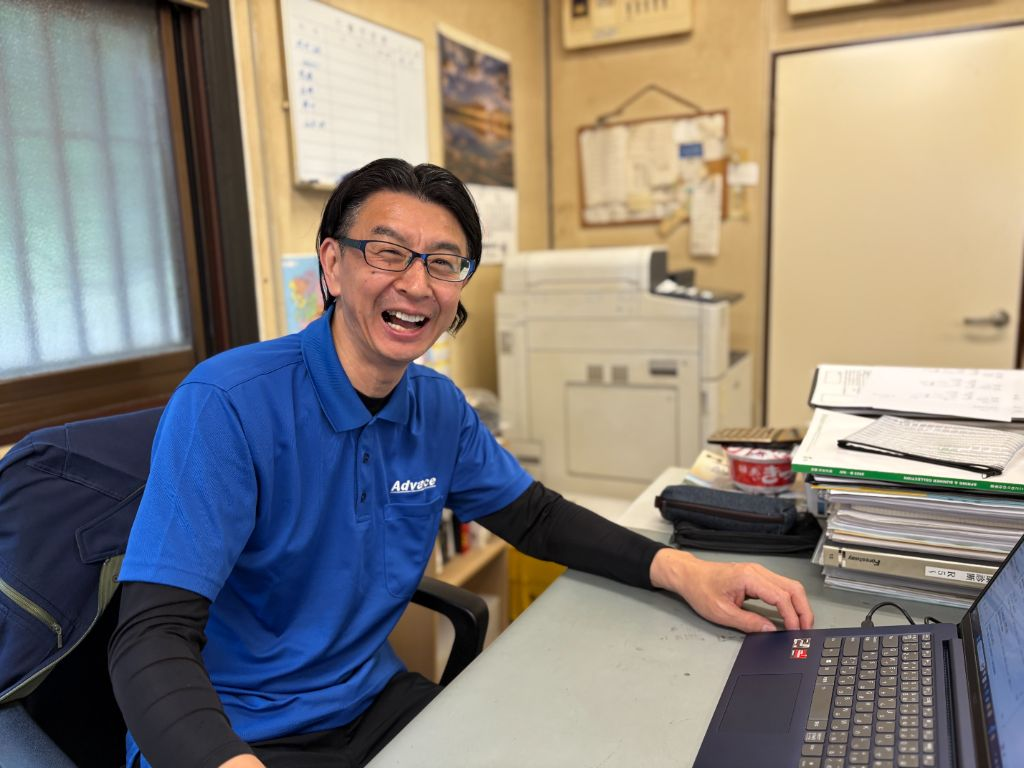
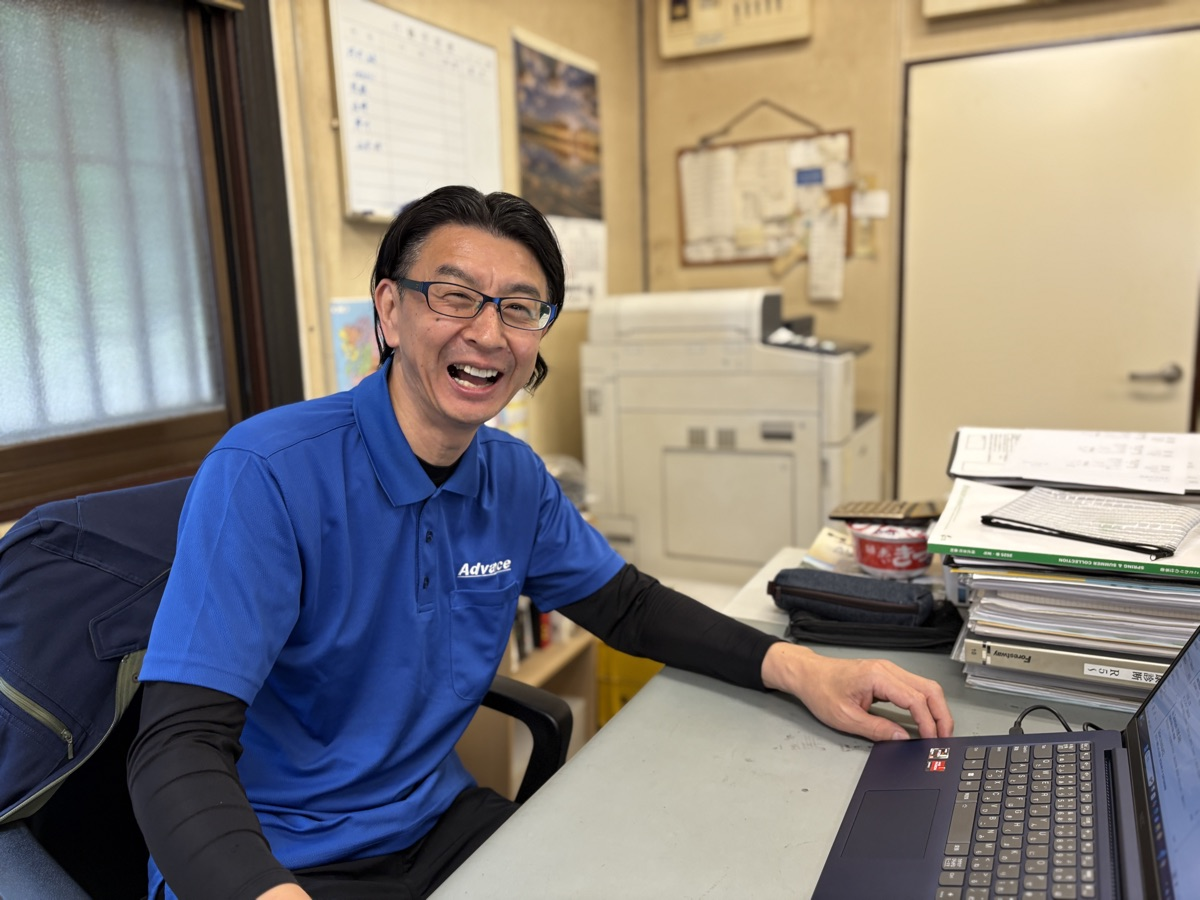
全写真を高画質版に入れ替え・FV上部カテゴリ帯を削除

diff --git a/index.html b/index.html
@@ -805,13 +805,6 @@
   <div class="fv__photo">
     <img src="images/real-staff-wing.jpg" alt="アドヴァンスのドライバー" />
 
-    <!-- 上部カテゴリ帯 -->
-    <div class="fv__bar">
-      <span class="fv__bar-cat">Driver Recruit</span>
-      <span class="fv__bar-line"></span>
-      <span class="fv__bar-info">千葉・埼玉｜食品配送ドライバー</span>
-    </div>
-
     <!-- メインコピー -->
     <div class="fv__copy">
       <div class="fv__copy-eyebrow">ADVANCE DRIVER STORY</div>
